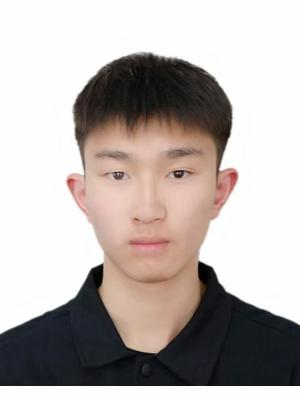
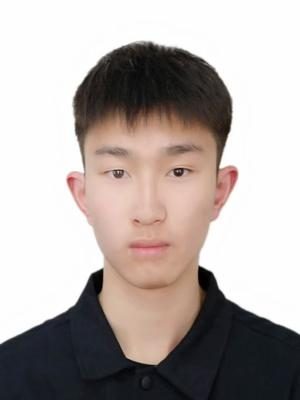
update resize code

diff --git a/common/tools/resize_photo.py b/common/tools/resize_photo.py
@@ -21,31 +21,31 @@ def resize_crop_or_pad(image_path,
     else:
         raise ValueError("priority must be either 'height' or 'width'")
 
-    img_resized = img.resize((new_w, new_h), Image.LANCZOS)
+    img_resized = img.resize((target_width, target_height), Image.LANCZOS)
+    img_resized.save(output_path)
+    # # ② 背景颜色：左上角像素
+    # bg_color = img_resized.getpixel((0, 0))
 
-    # ② 背景颜色：左上角像素
-    bg_color = img_resized.getpixel((0, 0))
+    # # ③ 根据缩放结果裁剪或填充
+    # if new_w >= target_width and new_h >= target_height:
+    #     # ——— 两边都够大：居中裁剪 ———
+    #     left   = (new_w - target_width)  // 2
+    #     top    = (new_h - target_height) // 2
+    #     right  = left + target_width
+    #     bottom = top  + target_height
+    #     img_out = img_resized.crop((left, top, right, bottom))
+    # else:
+    #     # ——— 有一边不足：新建画布 + 居中填充 ———
+    #     img_out = Image.new(img.mode, (target_width, target_height), bg_color)
+    #     offset_x = (target_width  - new_w) // 2
+    #     offset_y = (target_height - new_h) // 2
+    #     img_out.paste(img_resized, (offset_x, offset_y))
 
-    # ③ 根据缩放结果裁剪或填充
-    if new_w >= target_width and new_h >= target_height:
-        # ——— 两边都够大：居中裁剪 ———
-        left   = (new_w - target_width)  // 2
-        top    = (new_h - target_height) // 2
-        right  = left + target_width
-        bottom = top  + target_height
-        img_out = img_resized.crop((left, top, right, bottom))
-    else:
-        # ——— 有一边不足：新建画布 + 居中填充 ———
-        img_out = Image.new(img.mode, (target_width, target_height), bg_color)
-        offset_x = (target_width  - new_w) // 2
-        offset_y = (target_height - new_h) // 2
-        img_out.paste(img_resized, (offset_x, offset_y))
-
-    img_out.save(output_path)
+    # img_out.save(output_path)
 
 
 # ========= 使用示例 =========
-image_path  = 'common/img/yy.jpg'
+image_path  = 'common/img/lqy.jpg'
 output_path = image_path.replace('.jpg', '-resized.jpg')
 resize_crop_or_pad(image_path,
                    output_path,
